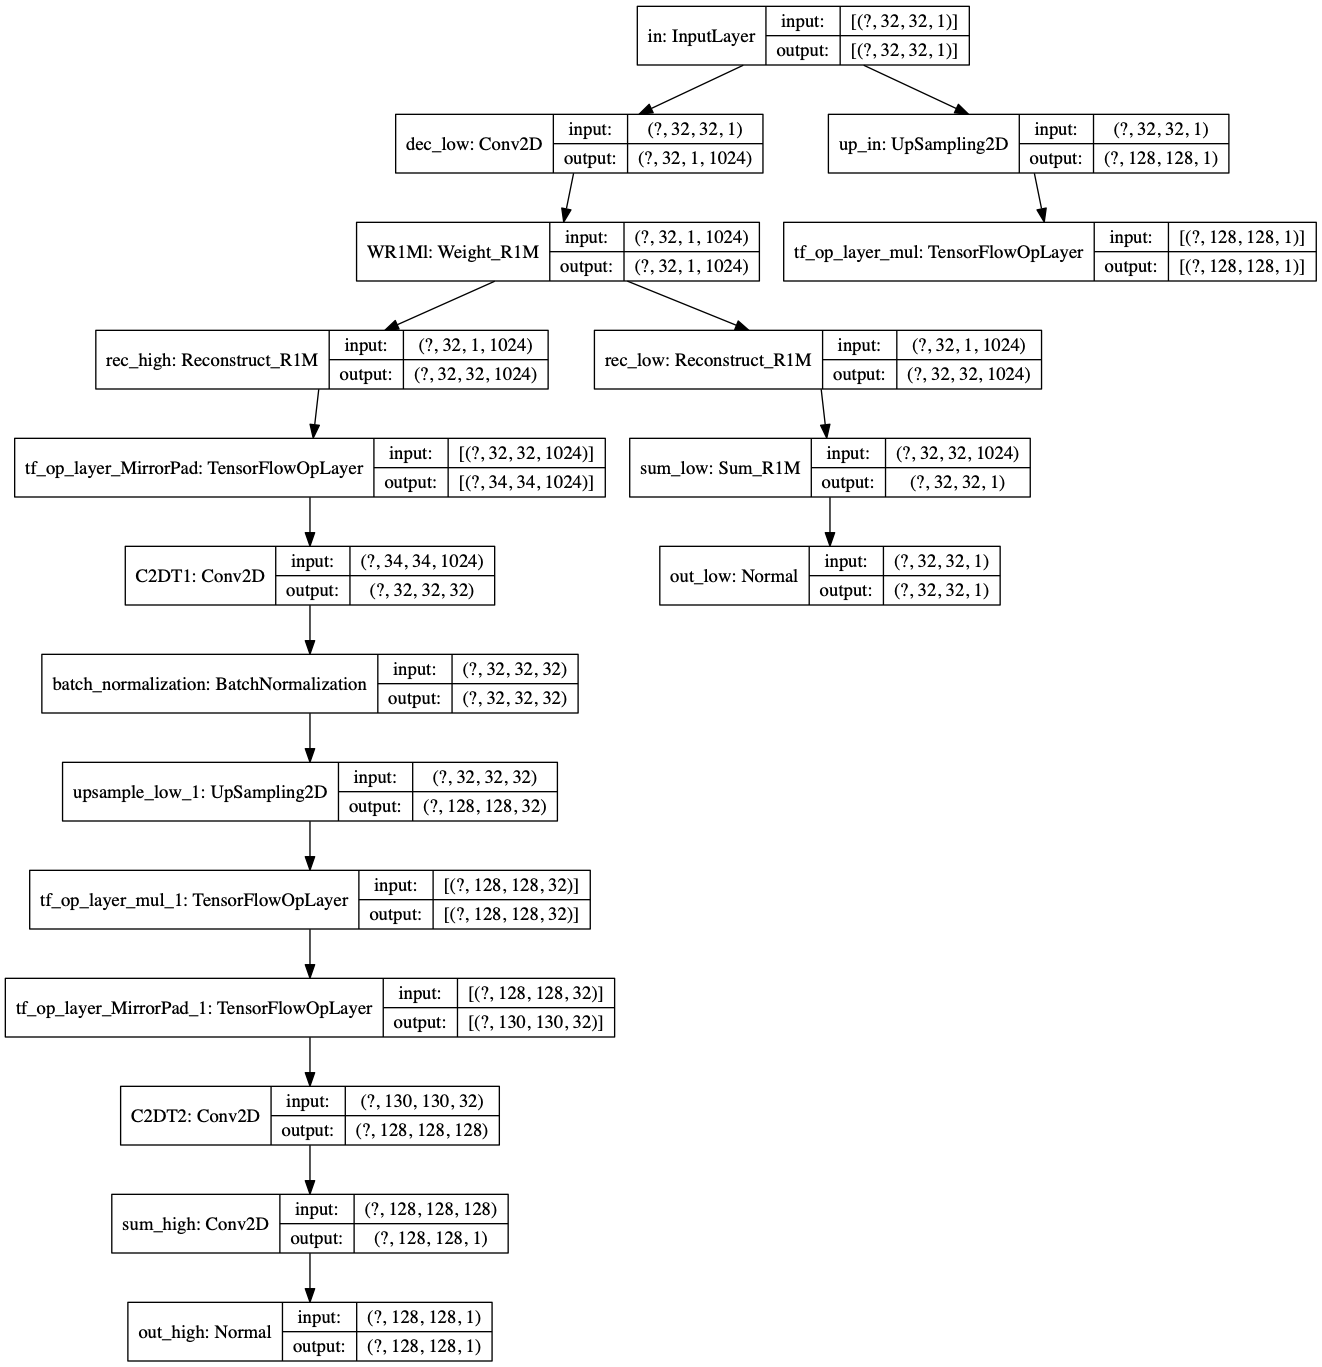
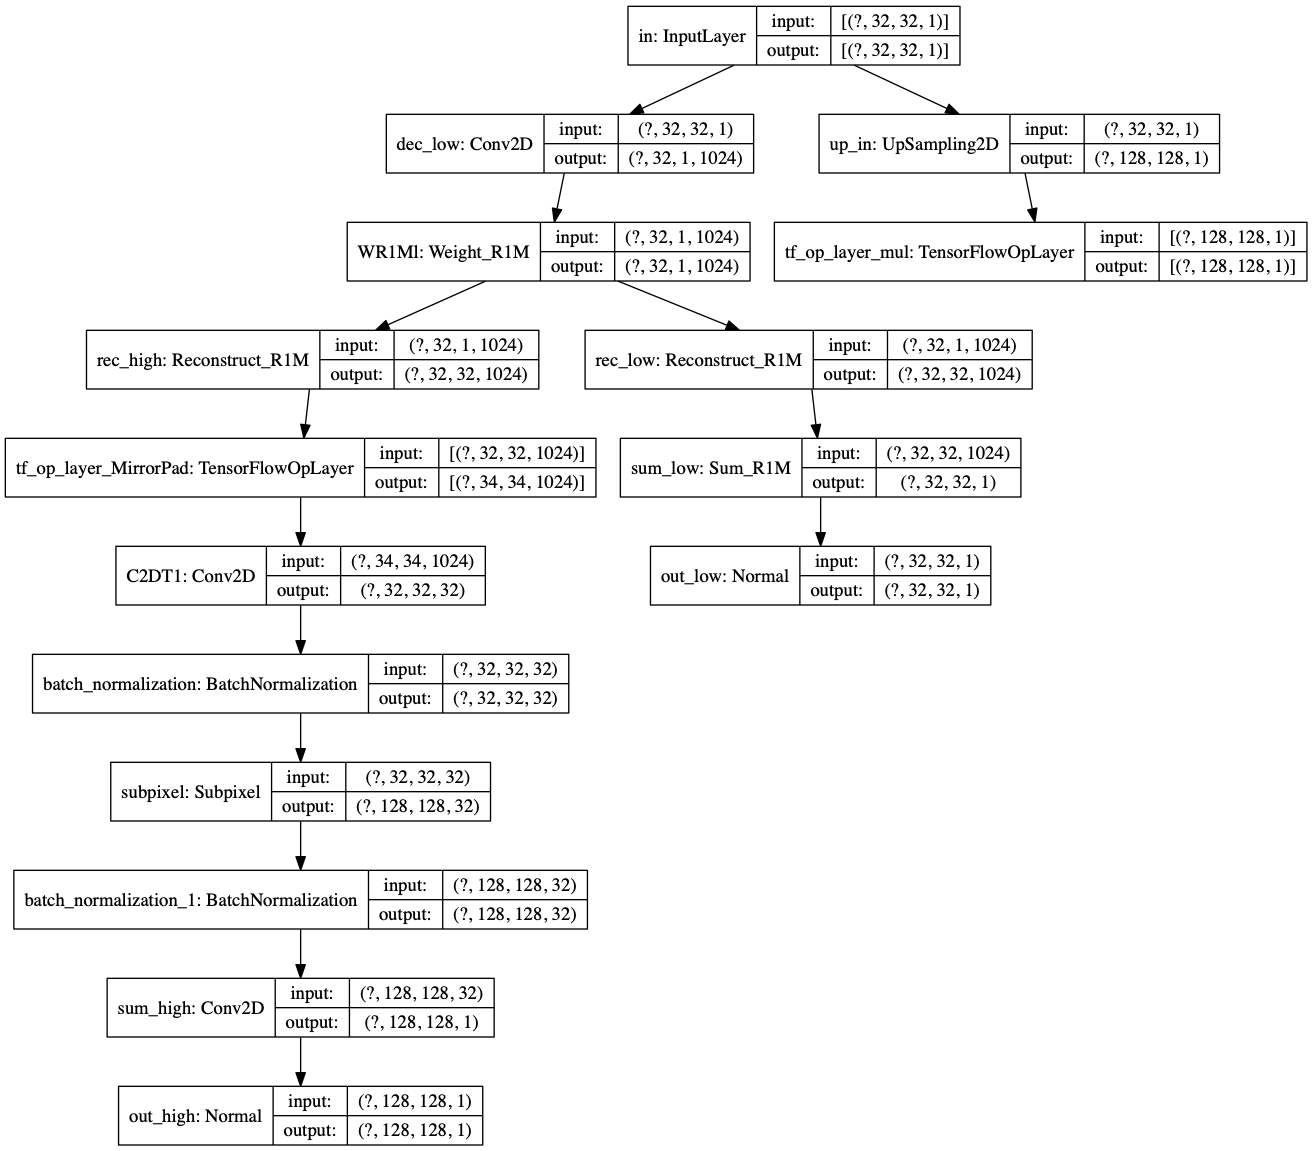
update gen

Changed region(s): [[0.0, 0.0, 1.0, 1.0]]

diff --git a/model.py b/model.py
@@ -32,6 +32,72 @@ class Weight_R1M(tf.keras.layers.Layer):
         return tf.multiply(input, self.w)
 
 
+class Subpixel(tf.keras.layers.Conv2D):
+    def __init__(self,
+                 filters,
+                 kernel_size,
+                 r,
+                 padding='valid',
+                 data_format=None,
+                 strides=(1,1),
+                 activation=None,
+                 use_bias=True,
+                 kernel_initializer='glorot_uniform',
+                 bias_initializer='zeros',
+                 kernel_regularizer=None,
+                 bias_regularizer=None,
+                 activity_regularizer=None,
+                 kernel_constraint=None,
+                 bias_constraint=None,
+                 **kwargs):
+        super(Subpixel, self).__init__(
+            filters=r*r*filters,
+            kernel_size=kernel_size,
+            strides=strides,
+            padding=padding,
+            data_format=data_format,
+            activation=activation,
+            use_bias=use_bias,
+            kernel_initializer=kernel_initializer,
+            bias_initializer=bias_initializer,
+            kernel_regularizer=kernel_regularizer,
+            bias_regularizer=bias_regularizer,
+            activity_regularizer=activity_regularizer,
+            kernel_constraint=kernel_constraint,
+            bias_constraint=bias_constraint,
+            **kwargs)
+        self.r = r
+
+    def _phase_shift(self, I):
+        r = self.r
+        bsize, a, b, c = I.get_shape().as_list()
+        bsize = tf.keras.backend.shape(I)[0] # Handling Dimension(None) type for undefined batch dim
+        X = tf.keras.backend.reshape(I, [int(bsize), int(a), int(b), int(c/(r*r)),int(r), int(r)]) # bsize, a, b, c/(r*r), r, r
+        #X = tf.keras.permute_dimensions(X, (0, 1, 2, 5, 4, 3))  # bsize, a, b, r, r, c/(r*r)
+        X = tf.transpose(X, perm=[0,1,2,5,4,3])
+        #Keras backend does not support tf.split, so in future versions this could be nicer
+        X = [X[:,i,:,:,:,:] for i in range(a)] # a, [bsize, b, r, r, c/(r*r)
+        X = tf.keras.backend.concatenate(X, 2)  # bsize, b, a*r, r, c/(r*r)
+        X = [X[:,i,:,:,:] for i in range(b)] # b, [bsize, r, r, c/(r*r)
+        X = tf.keras.backend.concatenate(X, 2)  # bsize, a*r, b*r, c/(r*r)
+        return X
+
+    def call(self, inputs):
+        return self._phase_shift(super(Subpixel, self).call(inputs))
+
+    def compute_output_shape(self, input_shape):
+        unshifted = super(Subpixel, self).compute_output_shape(input_shape)
+        return (unshifted[0], self.r*unshifted[1], self.r*unshifted[2], unshifted[3]/(self.r*self.r))
+
+    def get_config(self):
+        config = super(tf.keras.layers.Conv2D, self).get_config()
+        config.pop('rank')
+        config.pop('dilation_rate')
+        config['filters']/=self.r*self.r
+        config['r'] = self.r
+        return config
+
+
 class Sum_R1M(tf.keras.layers.Layer):
     def __init__(self, name='SR1M'):
         super(Sum_R1M, self).__init__(name=name)
@@ -56,15 +122,11 @@ class Normal(tf.keras.layers.Layer):
         colsr = tf.math.sqrt(tf.math.reduce_sum(
             tf.multiply(inputs, inputs), axis=2, keepdims=True))
         sumele = tf.math.multiply(rowsr, colsr)
-        #tf.math.divide_no_nan(inputs, sumele)
         Div = tf.math.divide_no_nan(inputs, sumele)
         self.w.assign(tf.nn.relu(self.w))
-        #self.d.assign(tf.nn.relu(self.d))
         WT = tf.transpose(self.w, perm=[0, 2, 1, 3])
         M = tf.multiply(self.w, WT)
-        #opd = tf.linalg.LinearOperatorToeplitz(self.d, self.d)
-        #opd = tf.expand_dims(opd.to_dense(), axis=-1)
-        #return tf.add(tf.multiply(Div, M), opd)
+
         return tf.multiply(Div, M)
 
 class symmetry_constraints(tf.keras.constraints.Constraint):
@@ -127,35 +189,27 @@ def make_generator_model(len_low_size=16, scale=4):
     Sumh = Sum_R1M(name='sum_high')(trans_2)
     high_out = Normal(int(len_low_size*scale), name='out_high')(Sumh)'''
 
-    
     Rech = Reconstruct_R1M(1024, name='rec_high')(WeiR1Ml)
     paddings = tf.constant([[0,0],[1, 1], [1, 1], [0,0]])
     Rech = tf.pad(Rech, paddings, "SYMMETRIC")
     trans_1 = tf.keras.layers.Conv2D(filters=32, kernel_size=(3,3),
                                     strides=(1,1), padding='valid',
                                     data_format="channels_last",
-                                    kernel_constraint=symmetry_constraints(),
+                                    kernel_constraint=symmetry_constraints(), 
                                     activation='relu', use_bias=False, name='C2DT1')(Rech)
     batchnorm_1 = tf.keras.layers.BatchNormalization()(trans_1)
-    up_1 = tf.keras.layers.UpSampling2D(size=(4, 4), data_format='channels_last', interpolation='bilinear' , name='upsample_low_1')(batchnorm_1)
-    m_F = tf.constant(1/16.0, shape=(1, 1, 1, 1))
-    up_1 = tf.keras.layers.Multiply(name='scale_value_high')([up_1, m_F])
-    paddings = tf.constant([[0,0],[1, 1], [1, 1], [0,0]])
-    batchnorm_1 = tf.pad(up_1, paddings, "SYMMETRIC")
-    trans_2 = tf.keras.layers.Conv2D(filters=128, kernel_size=(3,3),
-                                    strides=(1,1), padding='valid',
-                                    data_format="channels_last",
-                                    kernel_constraint=symmetry_constraints(),
-                                    activation='relu', use_bias=False, name='C2DT2')(batchnorm_1)
+    trans_2 = Subpixel(filters= int(32), kernel_size=(5,5), r=4, 
+                        activation='relu', use_bias=False, padding='same',
+                        kernel_constraint=symmetry_constraints(), name='subpixel')(batchnorm_1)
+    batchnorm_2 = tf.keras.layers.BatchNormalization()(trans_2)
     Sumh = tf.keras.layers.Conv2D(filters=1, kernel_size=(1,1),
                                     strides=(1,1), padding='same',
                                     data_format="channels_last",
                                     kernel_constraint=tf.keras.constraints.NonNeg(),
-                                    activation='relu', use_bias=False, name='sum_high')(trans_2)
+                                    activation='relu', use_bias=False, name='sum_high')(batchnorm_2)
     high_out = Normal(int(len_low_size*scale), name='out_high')(Sumh)
 
-    model = tf.keras.models.Model(
-        inputs=[In], outputs=[low_out, high_out, up_o])
+    model = tf.keras.models.Model(inputs=[In], outputs=[low_out, high_out, up_o])
     return model
 
 
@@ -250,7 +304,8 @@ def train_step_generator(Gen, Dis, imgl, imgr, loss_filter, opts, train_logs):
         #gen_high_v += Gen.get_layer('batch_normalization').trainable_variables
         gen_high_v += Gen.get_layer('C2DT1').trainable_variables
         gen_high_v += Gen.get_layer('batch_normalization').trainable_variables
-        gen_high_v += Gen.get_layer('C2DT2').trainable_variables
+        gen_high_v += Gen.get_layer('subpixel').trainable_variables
+        gen_high_v += Gen.get_layer('batch_normalization_1').trainable_variables
         gen_high_v += Gen.get_layer('sum_high').trainable_variables
         gen_high_v += Gen.get_layer('out_high').trainable_variables
         gen_loss_high_0 = generator_mse_loss(fake_hic_h, imgr_filter)
